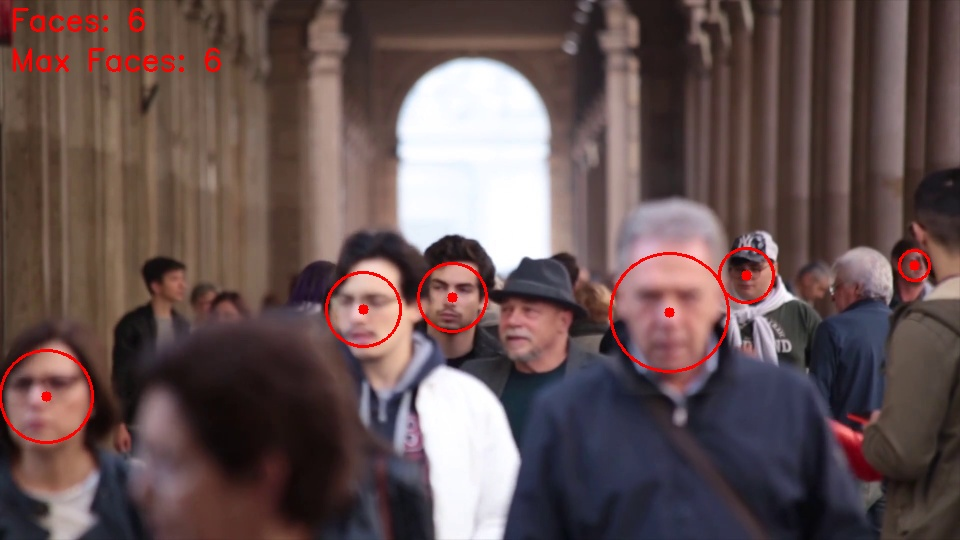
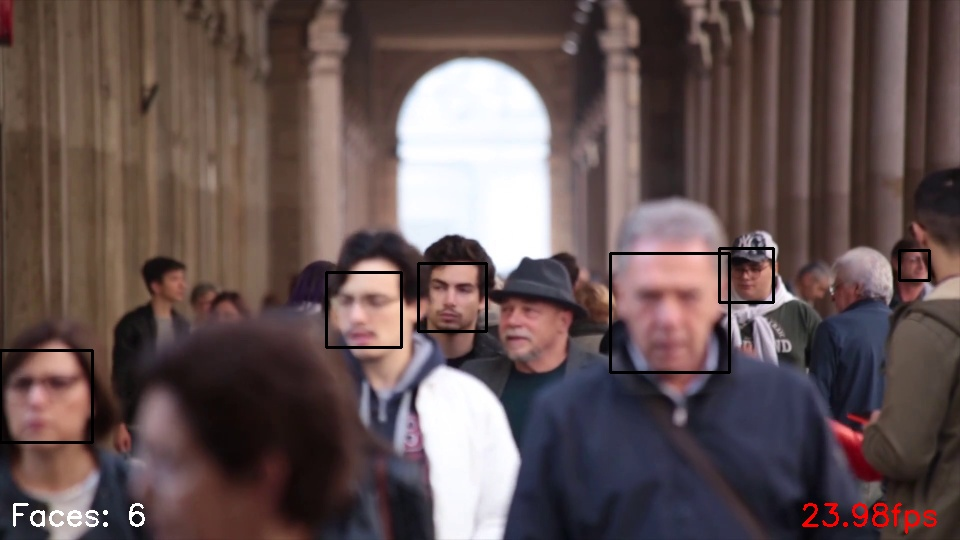
v2

diff --git a/main.py b/main.py
@@ -1,13 +1,17 @@
 import cv2
 
-detector = cv2.CascadeClassifier('haarcascade_frontalface_default.xml')
-cap = cv2.VideoCapture("video.mp4") # stock video from pexels
+max_faces = 0
 
 cv2.namedWindow('img', cv2.WINDOW_NORMAL)
-cv2.resizeWindow('img', 640, 480)
 cv2.setWindowTitle('img', 'Face Detection')
+cv2.resizeWindow('img', 800, 600)
+cv2.moveWindow('img', 0, 0)
 
-max_faces = 0
+
+detector = cv2.CascadeClassifier('haarcascade_frontalface_default.xml')
+cap = cv2.VideoCapture("video.mp4") # stock video from pexels
+fps = cap.get(cv2.CAP_PROP_FPS)
+
 
 while cv2.waitKey(30) & 0xff != 27:
 	for i in range(2): # skip 2 frames
@@ -24,15 +28,15 @@ while cv2.waitKey(30) & 0xff != 27:
 
 	faces = detector.detectMultiScale(gray, 1.1, 4)
 
-	for (x, y, w, h) in faces:
-		cv2.circle(img, (x + w//2, y + h//2), 5, (0, 0, 255), -1)
-		cv2.circle(img, (x + w//2, y + h//2), w//2, (0, 0, 255), 2)
 
 	if len(faces) > max_faces:
 		max_faces = len(faces)
 
-	cv2.putText(img, f'Faces: {len(faces)}', (10, 30), cv2.FONT_HERSHEY_SIMPLEX, 1, (0, 0, 255), 2)
-	cv2.putText(img, f'Max Faces: {max_faces}', (10, 70), cv2.FONT_HERSHEY_SIMPLEX, 1, (0, 0, 255), 2)
+	for (x, y, w, h) in faces:
+		cv2.rectangle(img, (x, y), (x + w, y + h), (0, 0, 0), 2)
+
+	cv2.putText(img, f'Faces: {len(faces)}', (10, 525), cv2.FONT_HERSHEY_SIMPLEX, 1, (255, 255, 255), 2)
+	cv2.putText(img, f'{fps:.2f}fps', (800, 525), cv2.FONT_HERSHEY_SIMPLEX, 1, (0, 0, 255), 2)
 
 	if len(faces) == max_faces:
 		cv2.imwrite('max_faces.jpg', img)

diff --git a/README.md b/README.md
@@ -1,16 +1,18 @@
-# Face Recognition
----
 
-## Description
-This is a simple face recognition program. 
+# Face Detection
+
+![Demo](max_faces.jpg)
+
+##  Description
+This is a simple face detection program. 
 Using OpenCV and a Haar Cascade Classifier, it is able to detect faces in a video stream.
 It will save the frame with the most faces in it to a file.
 
-## Setup
-1. Install Dependencies
-	1. OpenCV
-	2. Numpy
+## Video
+The video used in the demo is from Pexels, link to file: [https://www.pexels.com/video/video-of-people-walking-855564/](https://www.pexels.com/video/video-of-people-walking-855564/)
 
+##  Setup
+1. Install dependencies
     ```bash
 	pip3 install -r requirements.txt
 	```
@@ -20,8 +22,8 @@ It will save the frame with the most faces in it to a file.
 	```bash
 	python3 main.py
 	```
-
-## TODO
+	
+## TODO
 - [ ] Add a GUI
 - [ ] Add a way to save the frames to a folder
 - [ ] Add a way to save the frames to a video
